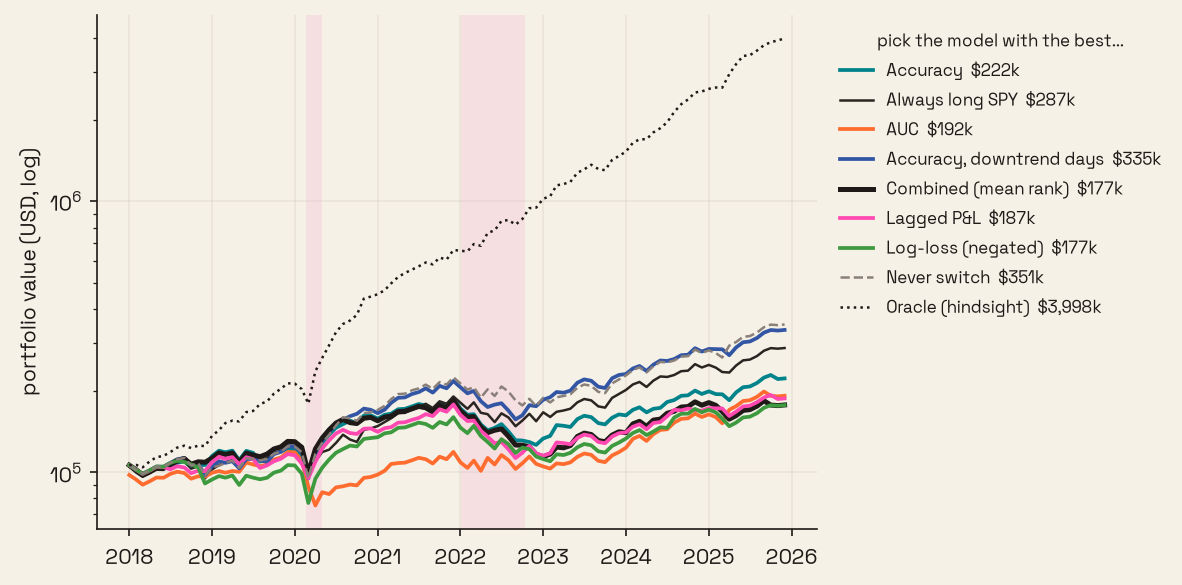
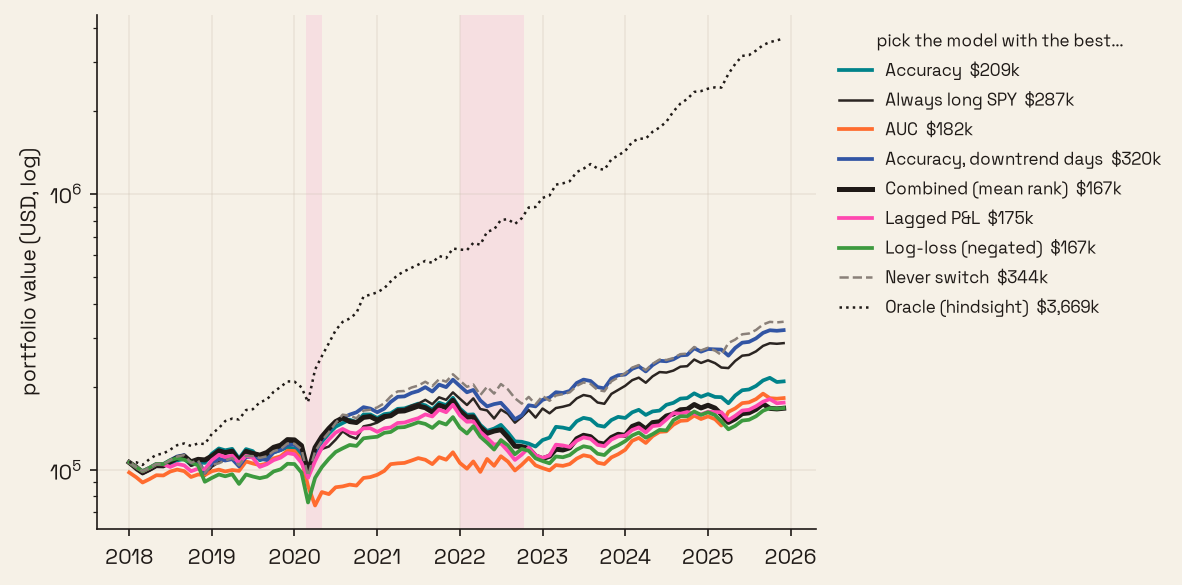
Slides/figs: net-of-fee deployment numbers

diff --git a/slides/outline.md b/slides/outline.md
@@ -10,10 +10,10 @@ Talk: October 10, 2026. Figures come from `uv run evalsq --grid 25` (`figures/`)
 6. **Benchmarking the benchmark.** Because of the lag we cannot just deploy the model that made money. So the question becomes which metric picks models that make money. Diagram: `mock_bench_of_bench.png`.
 7. **Three checks.** H1 validity (does the score track $?), H2 temporal holdout (does the ranking survive time?), H3 meta-model (is the score just the regime?). Diagram: `mock_heuristics_map.png`.
 8. **H1a. Does the score track $?** Accuracy correlates 0.82 with monthly Sharpe, AUC 0.35. AUC for LogReg falls to −0.55 in 2023. Figure: `fig2_h1_validity.png`.
-9. **H1b. What each metric earns.** $100k deployed by each rule: bear-day accuracy $335k, accuracy $222k, AUC $192k, log-loss $177k. Never switching made $351k and SPY made $287k. The metric with the best correlation does not make the most money. Figures: `fig5_deploy.png`, `fig6_picks.png`.
+9. **H1b. What each metric earns.** $100k deployed by each rule, net of 1bp per trade and 0.5%/yr short borrow: bear-day accuracy $320k, accuracy $209k, AUC $182k, log-loss $167k. Never switching made $344k and SPY made $287k. The metric with the best correlation does not make the most money. Fees cost the switching rules $10k to $15k (60+ swaps, 1 to 3 flips a month); at 10bp only bear-day accuracy ($220k) and never switching ($288k) are still close to SPY. Figures: `fig5_deploy.png`, `fig6_picks.png`.
 10. **H2. Does the ranking survive time?** Train on every year before, test on one year. The better model flips 3 times, and a single 2018 split hides that RF wins in the 2022 bear. Figure: `fig3_h2_holdout.png`.
 11. **H3. Is the score just the regime?** Predict RF yearly accuracy from that year's volatility and trend. LOO R² = −0.38, so the score still says something about the model. Figure: `fig4_h3_meta.png`.
 12. **Bonus. The more you compare, the more the leaderboard lies.** Best of k GBM configs: the bench promises 6.2pt more than it delivers at k=25, 0.1pt at k=1. Bench climbs 54% → 61% as k grows, deployed stays near 54% for every k. Why: within a month, bench acc vs deployed acc correlates 0.02, so the k=25 winner is just the luckiest config on the 63-day window and falls back to the average. The configs are nearly tied anyway (52 to 56% deployed), and the month matters more than the model (spread 9.3pt across months vs 5.4pt between models in a month). Month to month the gap swings −25 to +30pt and the best k flips between 1 and 25 with no pattern. Figures: `fig7_winners_curse.png`, `fig8_gap_dist.png`, `fig9_opt_k.png`.
-13. **Insights. What predicts a good benchmark, and what doesn't.** Predictive: plain accuracy (corr 0.82 with Sharpe, and it stays above 0.62 in every rolling window); scoring on the regime you fear (bear-day accuracy earns the most of any rule, $335k); testing across many years instead of one split (H2 shows 3 winner flips). Not predictive: number of candidates k (more k inflates the bench, deployed stays flat); AUC (0.34, goes negative in 2023); combining every metric into one score (0.75 corr, $177k, worse than accuracy alone); a model's bench score within a month (0.02 corr with deployed). Caveat: correlation is not money. No rule beat never switching ($351k), and the most correlated metric was not the most profitable.
+13. **Insights. What predicts a good benchmark, and what doesn't.** Predictive: plain accuracy (corr 0.82 with Sharpe, and it stays above 0.62 in every rolling window); scoring on the regime you fear (bear-day accuracy earns the most of any rule, $320k net); testing across many years instead of one split (H2 shows 3 winner flips). Not predictive: number of candidates k (more k inflates the bench, deployed stays flat); AUC (0.34, goes negative in 2023); combining every metric into one score (0.75 corr, $167k net, worse than accuracy alone); a model's bench score within a month (0.02 corr with deployed). Caveat: correlation is not money. No rule beat never switching ($344k net), and the most correlated metric was not the most profitable.
 14. **What each check catches.** H1 catches concept drift (the score to $ link moves). H2 catches data drift (regime change reorders models). H3 flags a benchmark that measures the environment more than the model. The winner's curse is selection bias, which shows up even with no drift.
 15. **Many more, depends on the task.** Coverage audits, label consistency, contamination. Discussion: what drift are you most exposed to, and would your benchmark notice?
